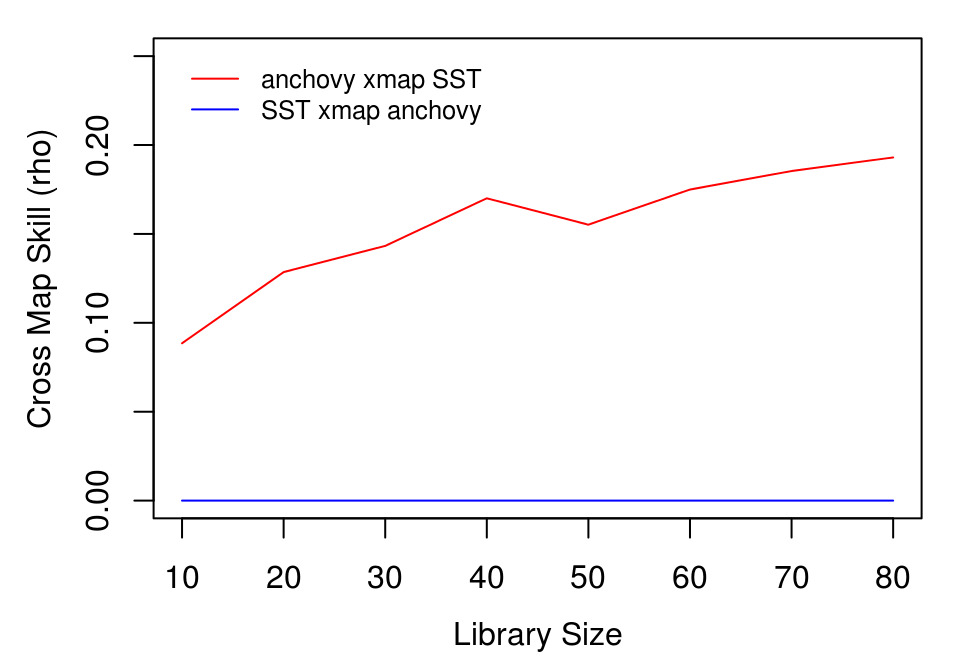
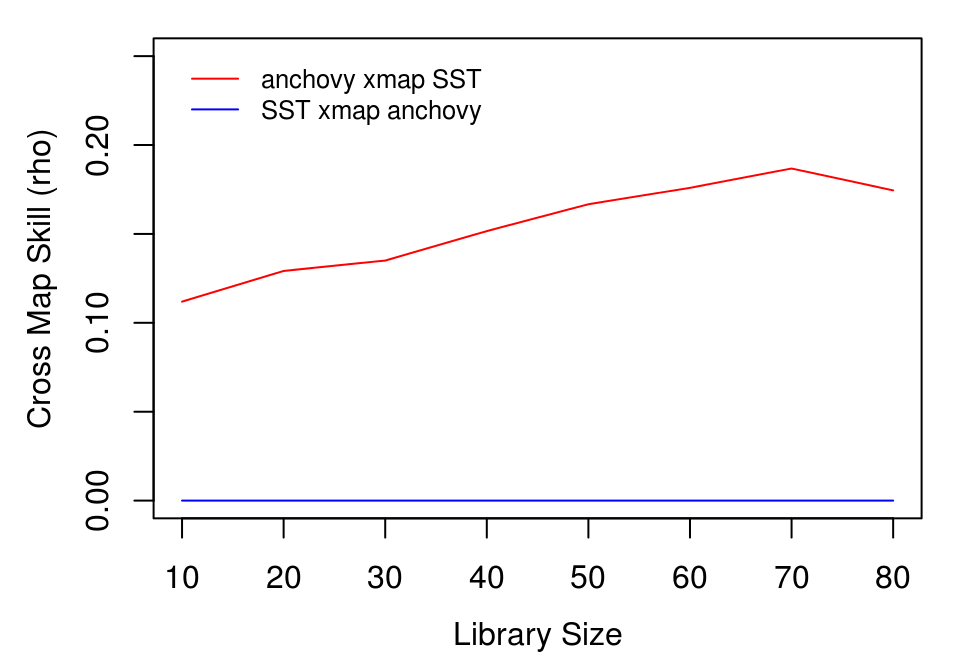
Deploy ha0ye/rEDM to github.com/ha0ye/rEDM.git:gh-pages

diff --git a/articles/rEDM.html b/articles/rEDM.html
@@ -487,9 +487,9 @@
 ##  $ target_column: Factor w/ 1 level "np_sst": 1 1 1 1 1 1 1 1 1 1 ...
 ##  $ lib_size     : num  10 10 10 10 10 10 10 10 10 10 ...
 ##  $ num_pred     : num  76 76 76 76 76 76 76 76 76 76 ...
-##  $ rho          : num  0.055 -0.0582 0.1387 0.3576 0.271 ...
-##  $ mae          : num  0.875 0.898 0.976 0.807 0.8 ...
-##  $ rmse         : num  1.11 1.11 1.21 1.02 1 ...</code></pre>
+##  $ rho          : num  0.1247 0.0318 0.412 0.2606 -0.2421 ...
+##  $ mae          : num  0.838 0.857 0.798 0.791 1.001 ...
+##  $ rmse         : num  1.065 1.086 0.985 1.005 1.224 ...</code></pre>
 <p>The output is a data.frame with statistics for each model run (in this case, 100 models at each of 8 library sizes). To interpret the results, we aggregate the cross map performance at each library size using the <code><a href="../reference/ccm_means.html">ccm_means()</a></code> function, which computes a mean value at each unique <code>lib_size</code>. Because average cross map skill less than 0 means there is no prediction skill, (predictions should not be anticorrelated with observations), we set negative values to 0 when plotting.</p>
 <div class="sourceCode" id="cb35"><pre class="sourceCode r"><code class="sourceCode r"><a class="sourceLine" id="cb35-1" data-line-number="1">a_xmap_t_means &lt;-<span class="st"> </span><span class="kw"><a href="../reference/ccm_means.html">ccm_means</a></span>(anchovy_xmap_sst)</a>
 <a class="sourceLine" id="cb35-2" data-line-number="2">t_xmap_a_means &lt;-<span class="st"> </span><span class="kw"><a href="../reference/ccm_means.html">ccm_means</a></span>(sst_xmap_anchovy)</a>

diff --git a/index.html b/index.html
@@ -209,7 +209,8 @@
 <ul class="list-unstyled">
 <li><a href="https://travis-ci.com/ha0ye/rEDM"><img src="https://travis-ci.com/ha0ye/rEDM.svg?branch=master" alt="Build Status"></a></li>
 <li><a href="https://doi.org/10.5281/zenodo.596502"><img src="https://zenodo.org/badge/DOI/10.5281/zenodo.596502.svg" alt="DOI"></a></li>
-<li><a href="https://cran.rstudio.com/web/packages/rEDM/index.html"><img src="https://cranlogs.r-pkg.org/badges/grand-total/rEDM" alt="CRAN downloads"></a></li>
+<li><a href="https://codecov.io/gh/ha0ye/rEDM"><img src="https://codecov.io/gh/ha0ye/rEDM/branch/master/graph/badge.svg" alt="codecov"></a></li>
+<li><a href="https://cran.rstudio.com/web/packages/rEDM/index.html"><img src="https://cranlogs.r-pkg.org/badges/grand-total/rEDM" alt="downloads"></a></li>
 </ul>
 </div>
 </div>
